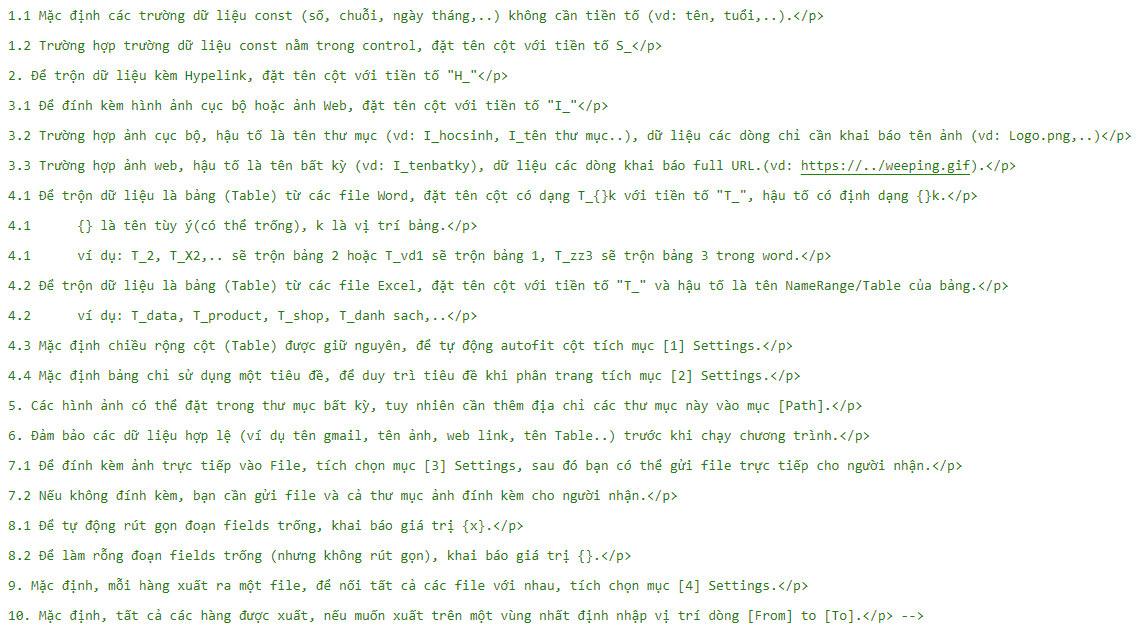
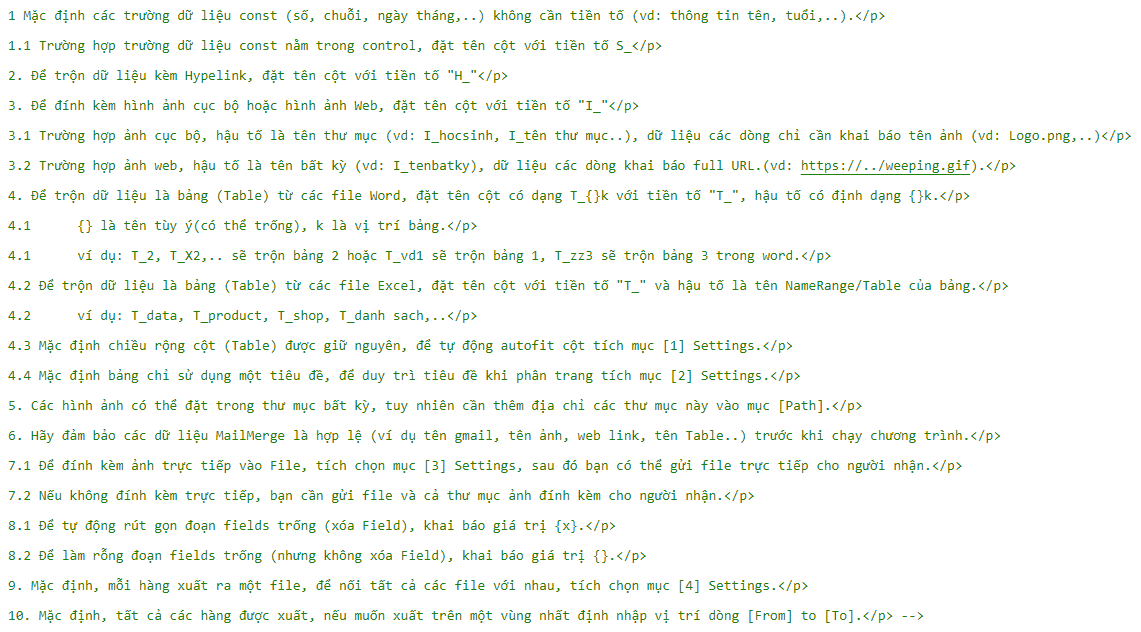
ok

diff --git a/r.mailmerge.html b/r.mailmerge.html
@@ -15,7 +15,7 @@
 
     <p>
     <div>● Chương trình trộn dữ liệu từ Excel sang Word nhanh chóng, đơn giản nhất và tốt nhất.</div>
-    <div>● Cập nhật bài viết 16/05/2024</div>
+    <div>● Cập nhật bài viết 11/06/2024</div>
     </p>
 
     <p>
@@ -49,13 +49,13 @@
         </note>
      </p>
     <blockquote><!-- 
-        <p>&nbsp;   1.1 Mặc định các trường dữ liệu const (số, chuỗi, ngày tháng,..) không cần tiền tố (vd: tên, tuổi,..).</p>
-        <p>&nbsp;   1.2 Trường hợp trường dữ liệu const nằm trong control, đặt tên cột với tiền tố S_</p>
+        <p>&nbsp;   1 Mặc định các trường dữ liệu const (số, chuỗi, ngày tháng,..) không cần tiền tố (vd: thông tin tên, tuổi,..).</p>
+        <p>&nbsp;   1.1 Trường hợp trường dữ liệu const nằm trong control, đặt tên cột với tiền tố S_</p>
         <p>&nbsp;   2. Để trộn dữ liệu kèm Hypelink, đặt tên cột với tiền tố "H_"</p>
-        <p>&nbsp;   3.1 Để đính kèm hình ảnh cục bộ hoặc ảnh Web, đặt tên cột với tiền tố "I_"</p>
-        <p>&nbsp;   3.2 Trường hợp ảnh cục bộ, hậu tố là tên thư mục (vd: I_hocsinh, I_tên thư mục..), dữ liệu các dòng chỉ cần khai báo tên ảnh (vd: Logo.png,..)</p>
-        <p>&nbsp;   3.3 Trường hợp ảnh web, hậu tố là tên bất kỳ (vd: I_tenbatky), dữ liệu các dòng khai báo full URL.(vd: https://../weeping.gif).</p>
-        <p>&nbsp;   4.1 Để trộn dữ liệu là bảng (Table) từ các file Word, đặt tên cột có dạng T_{}k với tiền tố "T_", hậu tố có định dạng {}k.</p>
+        <p>&nbsp;   3. Để đính kèm hình ảnh cục bộ hoặc hình ảnh Web, đặt tên cột với tiền tố "I_"</p>
+        <p>&nbsp;   3.1 Trường hợp ảnh cục bộ, hậu tố là tên thư mục (vd: I_hocsinh, I_tên thư mục..), dữ liệu các dòng chỉ cần khai báo tên ảnh (vd: Logo.png,..)</p>
+        <p>&nbsp;   3.2 Trường hợp ảnh web, hậu tố là tên bất kỳ (vd: I_tenbatky), dữ liệu các dòng khai báo full URL.(vd: https://../weeping.gif).</p>
+        <p>&nbsp;   4. Để trộn dữ liệu là bảng (Table) từ các file Word, đặt tên cột có dạng T_{}k với tiền tố "T_", hậu tố có định dạng {}k.</p>
         <p>&nbsp;   4.1      {} là tên tùy ý(có thể trống), k là vị trí bảng.</p>
         <p>&nbsp;   4.1      ví dụ: T_2, T_X2,.. sẽ trộn bảng 2 hoặc T_vd1 sẽ trộn bảng 1, T_zz3 sẽ trộn bảng 3 trong word.</p>
         <p>&nbsp;   4.2 Để trộn dữ liệu là bảng (Table) từ các file Excel, đặt tên cột với tiền tố "T_" và hậu tố là tên NameRange/Table của bảng.</p>
@@ -63,11 +63,11 @@
         <p>&nbsp;   4.3 Mặc định chiều rộng cột (Table) được giữ nguyên, để tự động autofit cột tích mục [1] Settings.</p> 
         <p>&nbsp;   4.4 Mặc định bảng chỉ sử dụng một tiêu đề, để duy trì tiêu đề khi phân trang tích mục [2] Settings.</p> 
         <p>&nbsp;   5. Các hình ảnh có thể đặt trong thư mục bất kỳ, tuy nhiên cần thêm địa chỉ các thư mục này vào mục [Path].</p>
-        <p>&nbsp;   6. Đảm bảo các dữ liệu hợp lệ (ví dụ tên gmail, tên ảnh, web link, tên Table..) trước khi chạy chương trình.</p>
+        <p>&nbsp;   6. Hãy đảm bảo các dữ liệu MailMerge là hợp lệ (ví dụ tên gmail, tên ảnh, web link, tên Table..) trước khi chạy chương trình.</p>
         <p>&nbsp;   7.1 Để đính kèm ảnh trực tiếp vào File, tích chọn mục [3] Settings, sau đó bạn có thể gửi file trực tiếp cho người nhận.</p>
-        <p>&nbsp;   7.2 Nếu không đính kèm, bạn cần gửi file và cả thư mục ảnh đính kèm cho người nhận.</p>
-        <p>&nbsp;   8.1 Để tự động rút gọn đoạn fields trống, khai báo giá trị {x}.</p>
-        <p>&nbsp;   8.2 Để làm rỗng đoạn fields trống (nhưng không rút gọn), khai báo giá trị {}.</p>
+        <p>&nbsp;   7.2 Nếu không đính kèm trực tiếp, bạn cần gửi file và cả thư mục ảnh đính kèm cho người nhận.</p>
+        <p>&nbsp;   8.1 Để tự động rút gọn đoạn fields trống (xóa Field), khai báo giá trị {x}.</p>
+        <p>&nbsp;   8.2 Để làm rỗng đoạn fields trống (nhưng không xóa Field), khai báo giá trị {}.</p>
         <p>&nbsp;   9. Mặc định, mỗi hàng xuất ra một file, để nối tất cả các file với nhau, tích chọn mục [4] Settings.</p>
         <p>&nbsp;   10. Mặc định, tất cả các hàng được xuất, nếu muốn xuất trên một vùng nhất định nhập vị trí dòng [From] to [To].</p> -->
         <img src="gif/r.mailmerge.note.png">
@@ -102,7 +102,7 @@
      </p>
      <blockquote>
         <p>&nbsp;1. Các cột (field) không được trùng lặp tên.</p>
-        <p>&nbsp;2. Cột cuối cùng được sử dụng để đặt tên File Word được xuất (Tên file không chứa extension).</p>
+        <p>&nbsp;2. Cột dữ liệu cuối cùng trên Excel được sử dụng để đặt tên File Word được xuất (Tên file không chứa extension).</p>
         <p>&nbsp;2. Khi trộn bảng từ Excel hoặc Word, các tên bảng [Name] trên Excel và [Field] được chèn trong Word phải khớp nhau.</p>
        </blockquote>
 
